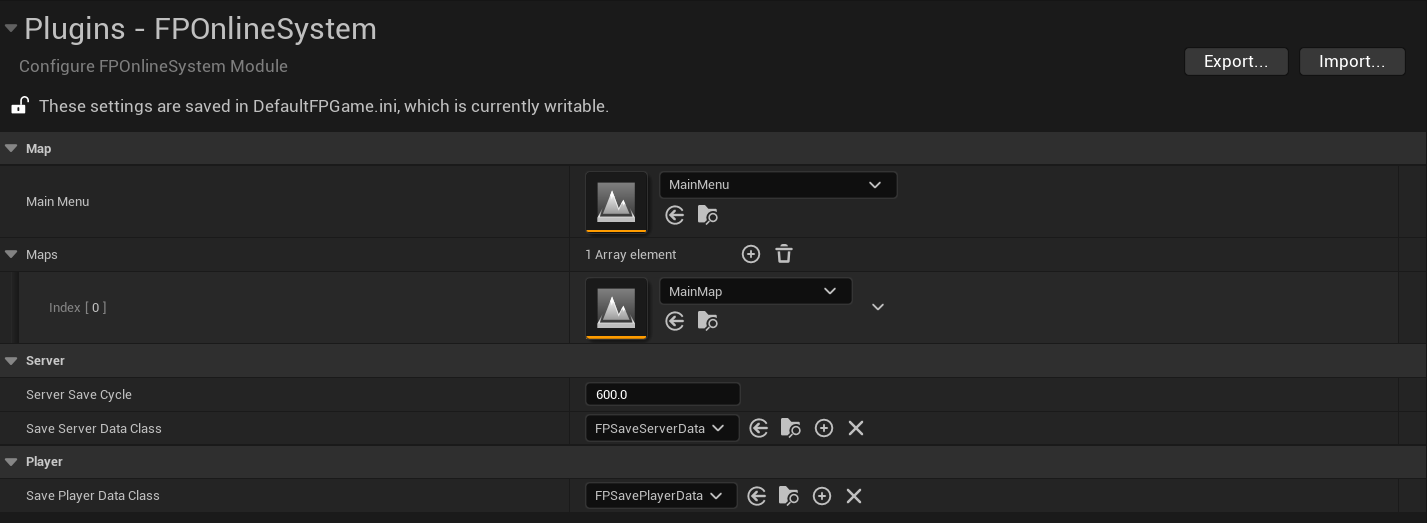
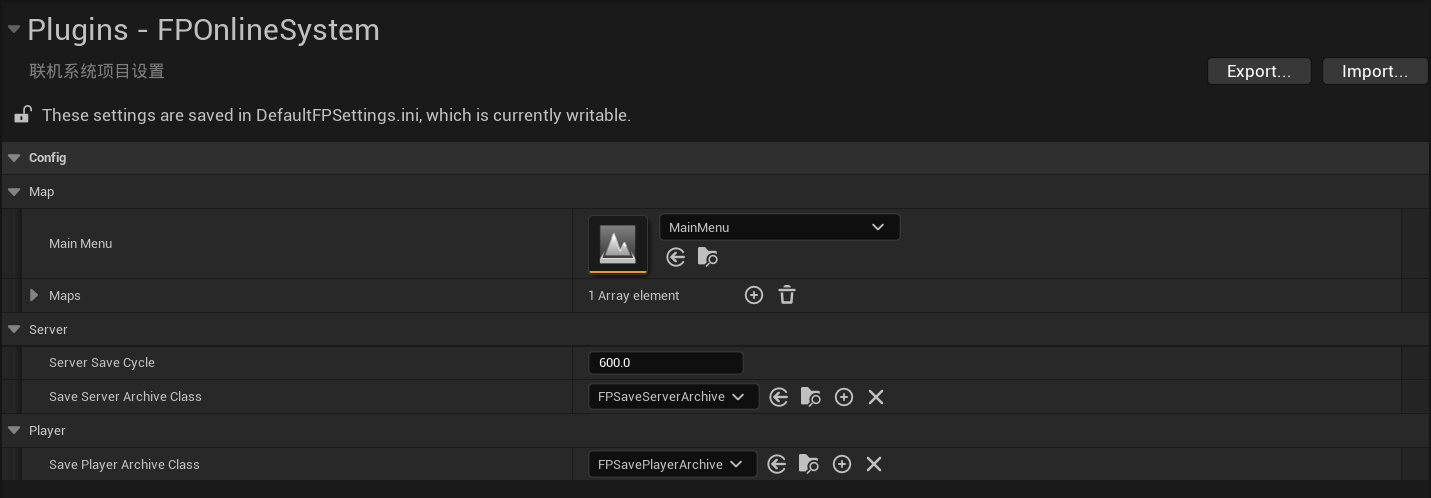
玩家ID换成玩家唯一ID

diff --git a/README.md b/README.md
@@ -37,7 +37,7 @@ YouTube: [FirePlume126](https://www.youtube.com/@FirePlume126)
 |:-:|:-:|:-:|:-:|:-:|
 |UserSettings.sav|保存玩家信息，主要包括玩家ID和名称，玩家ID不支持修改|客户端|游戏启动时|修改时|
 |ServerArchive_地图名称.sav|保存服务器存档，主要包括玩家信息列表、服务器时间和自定义服务器数据|服务器|创建服务器|玩家退出游戏、退出服务器、周期性保存|
-|Player_"玩家ID".sav|保存玩家游戏数据(类如：位置、属性等)，每个玩家对应一个存档|服务器|玩家加入游戏|更换`Pawn`(除了加入游戏更换`Pawn`)、玩家退出游戏、周期性保存|
+|PlayerArchive_"玩家ID".sav|保存玩家游戏数据(类如：位置、属性等)，每个玩家对应一个存档|服务器|玩家加入游戏|更换`Pawn`(除了加入游戏更换`Pawn`)、玩家退出游戏、周期性保存|
 |ServerSettings.ini|专用服务器配置文件|服务器|创建专用服务器|手动修改|
 
 专用服务器配置文件：ServerSettings.ini
@@ -87,8 +87,8 @@ bStartAfterCreate=False
 |MainMenu|`TSoftObjectPtr<UWorld>`|主菜单地图|
 |Maps|`TArray<TSoftObjectPtr<UWorld>>`|可以切换的地图，专用服务器可以通过ServerSettings.ini设置要切换的地图名称|
 |ServerSaveCycle|`float`|服务器保存周期，专用服务器在ServerSettings.ini中设置|
-|SaveServerDataClass|`TSubclassOf<UFPOnlineSaveServerArchive>`|保存服务器数据的类，服务器用来保存服务器存档|
-|SavePlayerDataClass|`TSubclassOf<USaveGame>`|保存玩家数据的类，服务器用来保存玩家存档|
+|SaveServerArchiveClass|`TSubclassOf<UFPOnlineSaveServerArchive>`|保存服务器数据的类，服务器用来保存服务器存档|
+|SavePlayerArchiveClass|`TSubclassOf<USaveGame>`|保存玩家数据的类，服务器用来保存玩家存档|
 
 ![FPOnlineSystemSettings](https://github.com/FirePlume126/FP_OnlineSystem/blob/main/Images/FPOnlineSystemSettings.png)
 
@@ -130,7 +130,6 @@ void AMyPlayerController::OnUnPossess()
 3、给需要联机的`APlayerController`添加`FPOnlinePlayerComponent`组件，并添加`FPOnlinePlayerInterface`接口，重写接口函数`GetOnlinePlayerComponent()`。
 可以根据需要绑定组件的委托或调用组件的函数
 ```c++
-// .h
 DECLARE_DYNAMIC_MULTICAST_DELEGATE(FFPOnlinePlayerSimpleDelegate);
 DECLARE_DYNAMIC_MULTICAST_DELEGATE_TwoParams(FFPOnlinePlayerDataOperationDelegate, USaveGame*, NewSaveObject, EFPOnlinePlayerDataOperation, Operation);
 
@@ -146,15 +145,15 @@ FFPOnlinePlayerSimpleDelegate OnBanPlayerJoinGame;
 UPROPERTY(BlueprintAssignable, Category = "FPOnline")
 FFPOnlinePlayerSimpleDelegate OnJoinGameChangePawnCompleted;
 
-// 检测世界分区流送，加载流送完成后生成角色
-UPROPERTY(EditDefaultsOnly, BlueprintReadWrite, Category = "FPOnline")
-bool bCheckWorldPartitionStreaming = true;
+// 获取玩家唯一ID，可以用来设置玩家在服务器的状态，弃用PlayerState的PlayerId
+UFUNCTION(BlueprintCallable, Category = "FPOnline")
+FString GetPlayerUniqueId() const;
 
-// 加入游戏要更换的APawn类，在委托OnPlayerDataOperation加载存档时，修改此变量可以生成玩家职业对应的Pawn
+// 加入游戏要更换的APawn类，在委托OnPlayerDataOperationDelegate加载存档时，修改此变量可以生成玩家职业对应的Pawn
 UPROPERTY(EditDefaultsOnly, BlueprintReadWrite, Category = "FPOnline")
 TSubclassOf<APawn> PlayerPawnClass;
 
-// 生成角色的变换，在委托OnPlayerDataOperation加载存档时，修改此变量可以在此位置生成Pawn
+// 生成角色的变换，在委托OnPlayerDataOperationDelegate加载存档时，修改此变量可以在此位置生成Pawn
 UPROPERTY(BlueprintReadWrite, Category = "FPOnline")
 FTransform CharacterTransform;
 
@@ -190,7 +189,7 @@ static FString GetMapURL(const FString& InMapName);
 UFUNCTION(BlueprintPure, Category = "FPOnline")
 static TArray<FString> GetAllMapName();
 
-// 获取地图名称
+// 获取地图名称，保存在硬盘，重启游戏默认选择的地图
 UFUNCTION(BlueprintPure, meta = (WorldContext = "WorldContextObject"), Category = "FPOnline")
 static FString GetMapName(const UObject* WorldContextObject);
 
@@ -217,43 +216,67 @@ static void CallClientTravel(const UObject* WorldContextObject, const FString& I
 UFUNCTION(BlueprintCallable, meta = (WorldContext = "WorldContextObject"), Category = "FPOnline")
 static void OpenMainMenu(const UObject* WorldContextObject);
 
-//====================================子系统功能====================================>>
+//====================================服务器功能====================================>>
 
 // 玩家升级时更新
-UFUNCTION(BlueprintCallable, meta = (WorldContext = "WorldContextObject"), Category = "FPOnline")
-static void UpdateWhenUpLevelPlayer(const UObject* WorldContextObject, int32 InPlayerId, int32 InLevel);
+UFUNCTION(BlueprintCallable, BlueprintAuthorityOnly, meta = (WorldContext = "WorldContextObject"), Category = "FPOnline")
+static void UpdateWhenUpLevelPlayer(const UObject* WorldContextObject, const FString& InUniqueId, int32 InLevel);
 
 // 拉黑或取消拉黑玩家时更新
-UFUNCTION(BlueprintCallable, meta = (WorldContext = "WorldContextObject"), Category = "FPOnline")
-static void UpdateWhenBannedPlayer(const UObject* WorldContextObject, int32 InPlayerId, bool bInHasBan);
+UFUNCTION(BlueprintCallable, BlueprintAuthorityOnly, meta = (WorldContext = "WorldContextObject"), Category = "FPOnline")
+static void UpdateWhenBannedPlayer(const UObject* WorldContextObject, const FString& InUniqueId, bool bInHasBan);
 
 // 删除玩家存档时更新
-UFUNCTION(BlueprintCallable, meta = (WorldContext = "WorldContextObject"), Category = "FPOnline")
-static void UpdateWhenRemovePlayer(const UObject* WorldContextObject, int32 InPlayerId);
+UFUNCTION(BlueprintCallable, BlueprintAuthorityOnly, meta = (WorldContext = "WorldContextObject"), Category = "FPOnline")
+static void UpdateWhenRemovePlayer(const UObject* WorldContextObject, const FString& InUniqueId);
 
-// 获取玩家信息列表
-UFUNCTION(BlueprintCallable, meta = (WorldContext = "WorldContextObject"), Category = "FPOnline")
-static TArray<FFPOnlinePlayersInfo> GetPlayersInfoList(const UObject* WorldContextObject);
+// 获取玩家信息映射表
+UFUNCTION(BlueprintPure, BlueprintAuthorityOnly, meta = (WorldContext = "WorldContextObject"), Category = "FPOnline")
+static TMap<FString, FFPOnlinePlayerInfo> GetPlayerInfoMap(const UObject* WorldContextObject);
 
-// 获取在线玩家控制器列表
-UFUNCTION(BlueprintCallable, meta = (WorldContext = "WorldContextObject"), Category = "FPOnline")
-static TArray<APlayerController*> GetPlayerControllerList(const UObject* WorldContextObject);
+// 获取在线玩家数据映射表
+UFUNCTION(BlueprintPure, BlueprintAuthorityOnly, meta = (WorldContext = "WorldContextObject"), Category = "FPOnline")
+static TMap<FString, FFPOnlinePlayerData> GetOnlinePlayerDataMap(const UObject* WorldContextObject);
 
 // 设置服务器时间，仅用来作弊
-UFUNCTION(BlueprintCallable, meta = (WorldContext = "WorldContextObject"), Category = "FPOnline")
-static void SetServerTimeSeconds(const UObject* WorldContextObject, int32 InTime);
+UFUNCTION(BlueprintCallable, BlueprintAuthorityOnly, meta = (WorldContext = "WorldContextObject"), Category = "FPOnline")
+static void SetServerTimeSeconds(const UObject* WorldContextObject, double InTimeSeconds);
 
 // 获取服务器时间
-UFUNCTION(BlueprintCallable, meta = (WorldContext = "WorldContextObject"), Category = "FPOnline")
-static int32 GetServerTimeSeconds(const UObject* WorldContextObject);
+UFUNCTION(BlueprintPure, BlueprintAuthorityOnly, meta = (WorldContext = "WorldContextObject"), Category = "FPOnline")
+static double GetServerTimeSeconds(const UObject* WorldContextObject);
 
-// 设置玩家ID：本地调用，可以通过APlayerState获取玩家ID
-UFUNCTION(BlueprintCallable, meta = (WorldContext = "WorldContextObject"), Category = "FPOnline")
-static void SetPlayerId(const UObject* WorldContextObject, int32 NewPlayerId);
+//====================================用户设置====================================>>
 
-// 设置玩家名称：本地调用，可以通过APlayerState获取玩家名称
+// 设置玩家唯一ID，本地调用
+UFUNCTION(BlueprintCallable, meta = (WorldContext = "WorldContextObject"), Category = "FPOnline")
+static void SetPlayerUniqueId(const UObject* WorldContextObject, const FString& NewUniqueId);
+
+// 设置玩家名称，本地调用，可以通过APlayerState获取玩家名称
 UFUNCTION(BlueprintCallable, meta = (WorldContext = "WorldContextObject"), Category = "FPOnline")
 static void SetPlayerName(const UObject* WorldContextObject, const FString& NewPlayerName);
+
+// 获取玩家唯一ID，本地调用，服务器通过UFPOnlinePlayerComponent获取玩家唯一ID
+UFUNCTION(BlueprintPure, meta = (WorldContext = "WorldContextObject"), Category = "FPOnline")
+static FString GetPlayerUniqueId(const UObject* WorldContextObject);
+
+//====================================其他功能====================================>>
+
+// 获取平台名称
+UFUNCTION(BlueprintPure, Category = "FPOnline")
+static FName GetPlatformName();
+
+// 是否基于平台
+UFUNCTION(BlueprintPure, Category = "FPOnline")
+static bool IsBasedPlatform();
+
+// 获取构建唯一ID，在DefaultEngine.ini中[FPOnlineSettings]下设置BuildUniqueId
+UFUNCTION(BlueprintPure, Category = "FPOnline")
+static int32 GetBuildUniqueId();
+
+// 获取当前地图名称
+UFUNCTION(BlueprintPure, meta = (WorldContext = "WorldContextObject"), Category = "FPOnline")
+static FString GetCurrentMapName(const UObject* WorldContextObject);
 
 // 获取网络模式
 UFUNCTION(BlueprintPure, meta = (WorldContext = "WorldContextObject", DisplayName = "GetNetMode"), Category = "FPOnline")
@@ -295,21 +318,7 @@ FFPOnlineStartSessionCompleteDelegate OnStartSessionComplete;
 FFPOnlineUpdateSessionCompleteDelegate OnUpdateSessionComplete;
 ```
 
-6、没联机的时候(开始游戏界面)，`APlayerController`不需要继承`FPOnlinePlayerInterface`和添加`FPOnlinePlayerComponent`，这时候如果要获取ID和名称，可以通过`FPOnlineManagerSubsystem`直接获取。也可以设置给玩家状态后，再通过玩家状态获取
-
-```c++
-void AMyPlayerState::BeginPlay()
-{
-	Super::BeginPlay();
-	if (UFPOnlineManagerSubsystem* OnlineManager = GetGameInstance()->GetSubsystem<UFPOnlineManagerSubsystem>())
-	{
-		SetPlayerId(OnlineManager->GetPlayerId());
-		SetPlayerName(OnlineManager->GetPlayerName());
-	}	
-}
-```
-
-7、调用`FPOnlinePlayerComponent`的函数添加聊天消息功能
+6、调用`FPOnlinePlayerComponent`的函数添加聊天消息功能
 
 ```c++
 // 接收聊天消息委托，绑定委托后把消息添加到UI(仅在本地执行)
